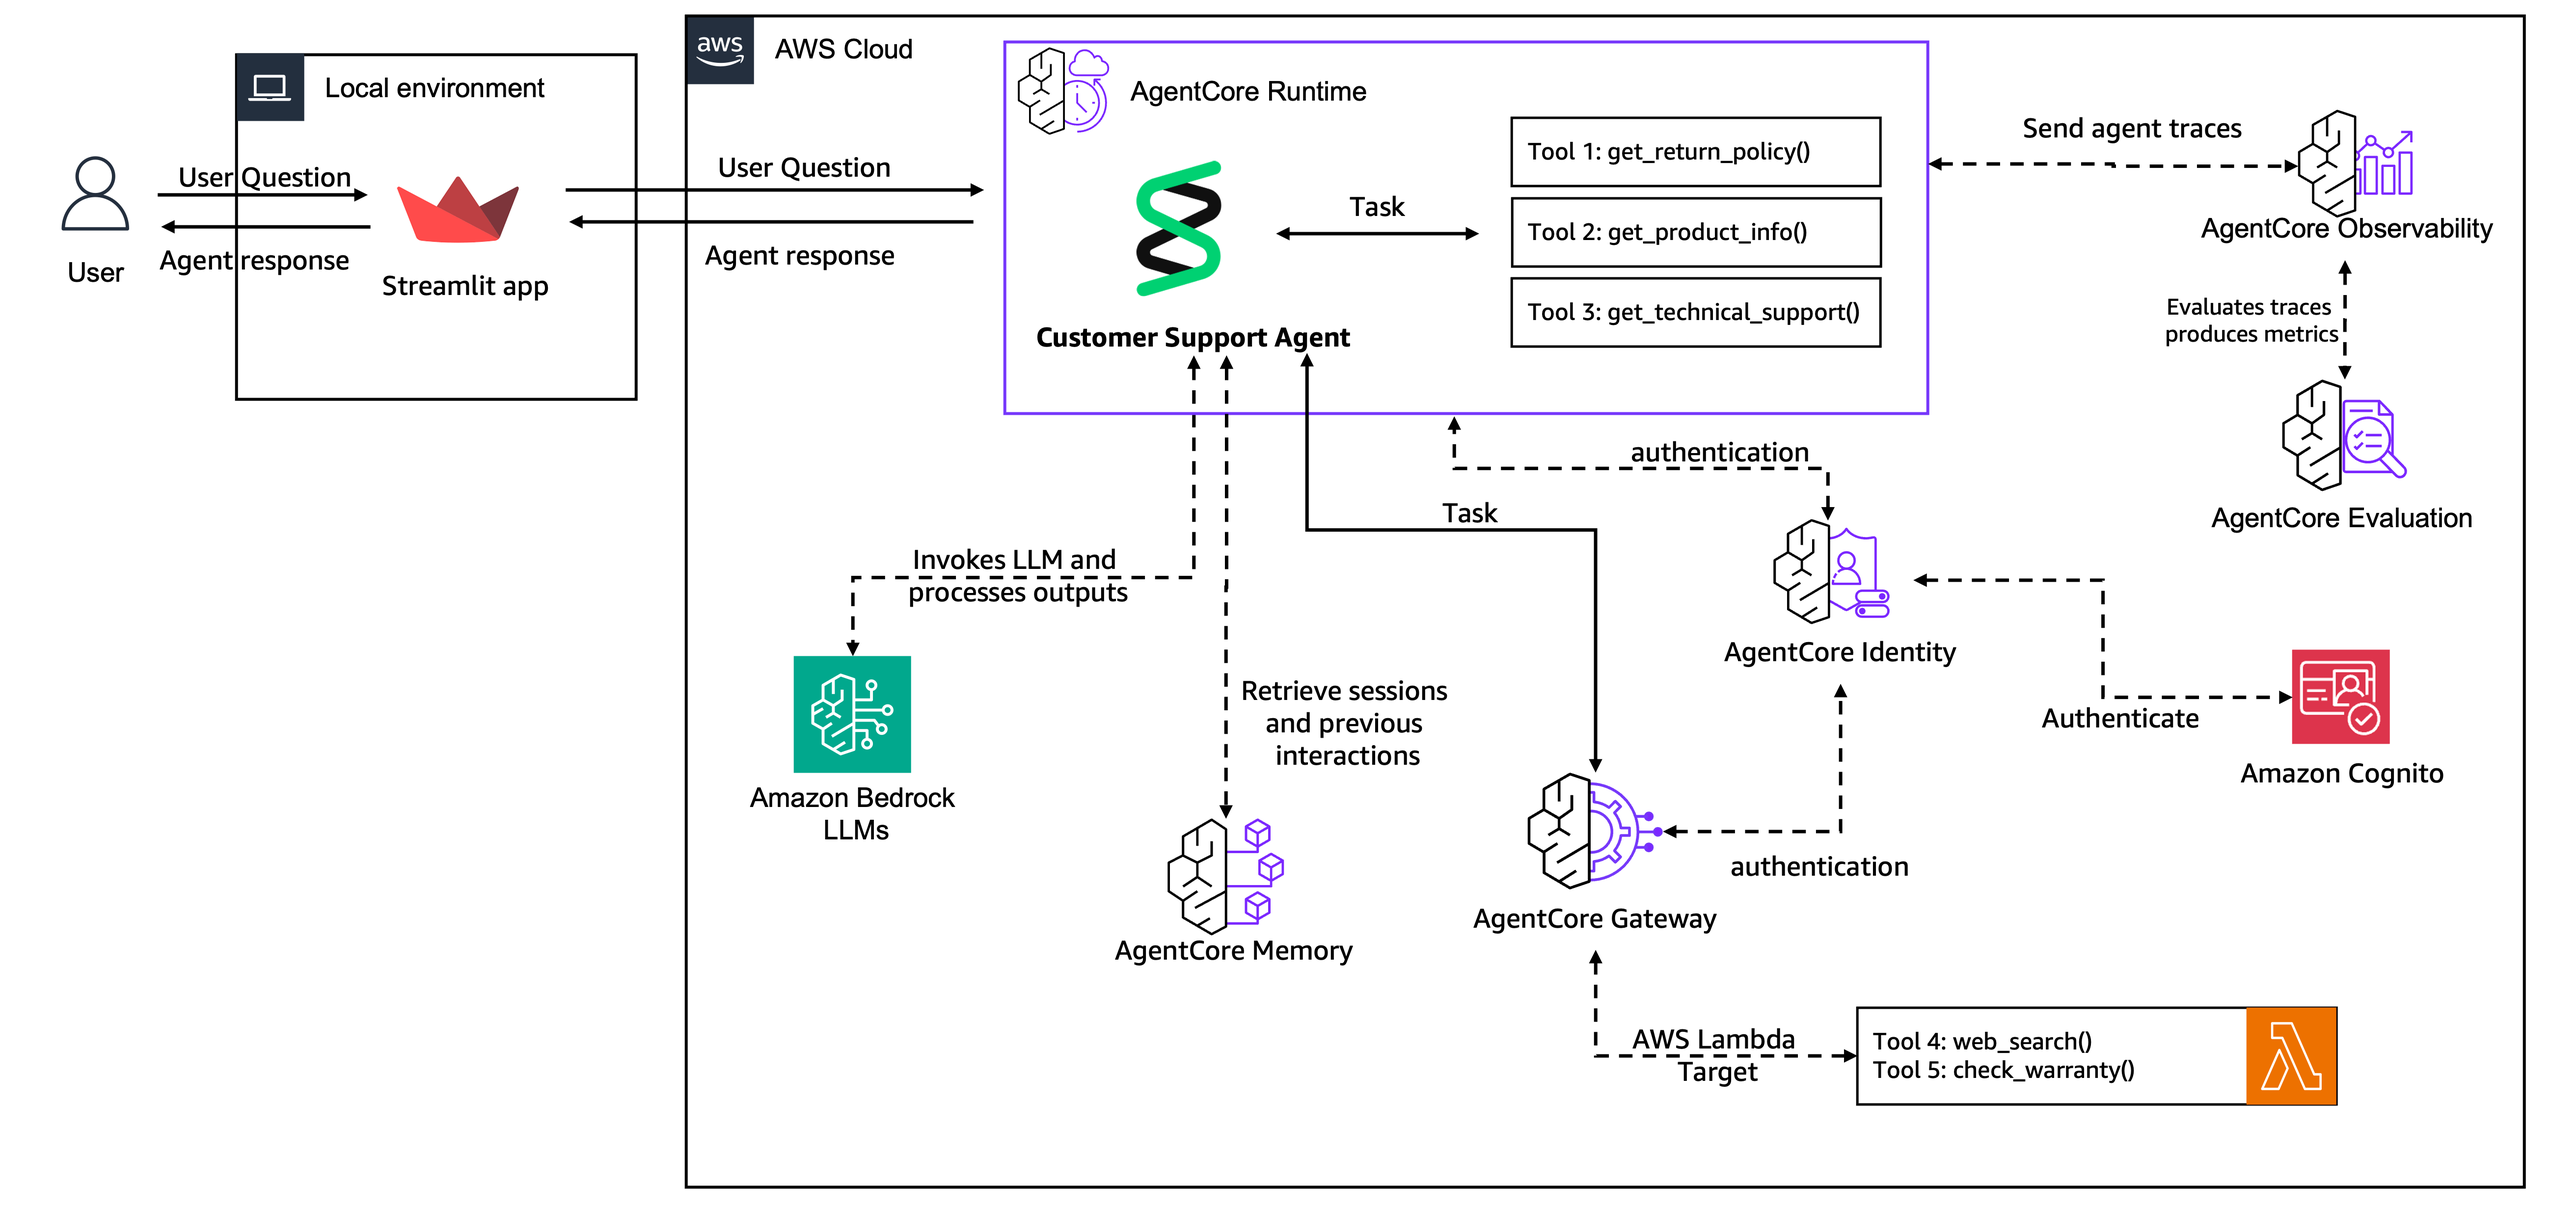
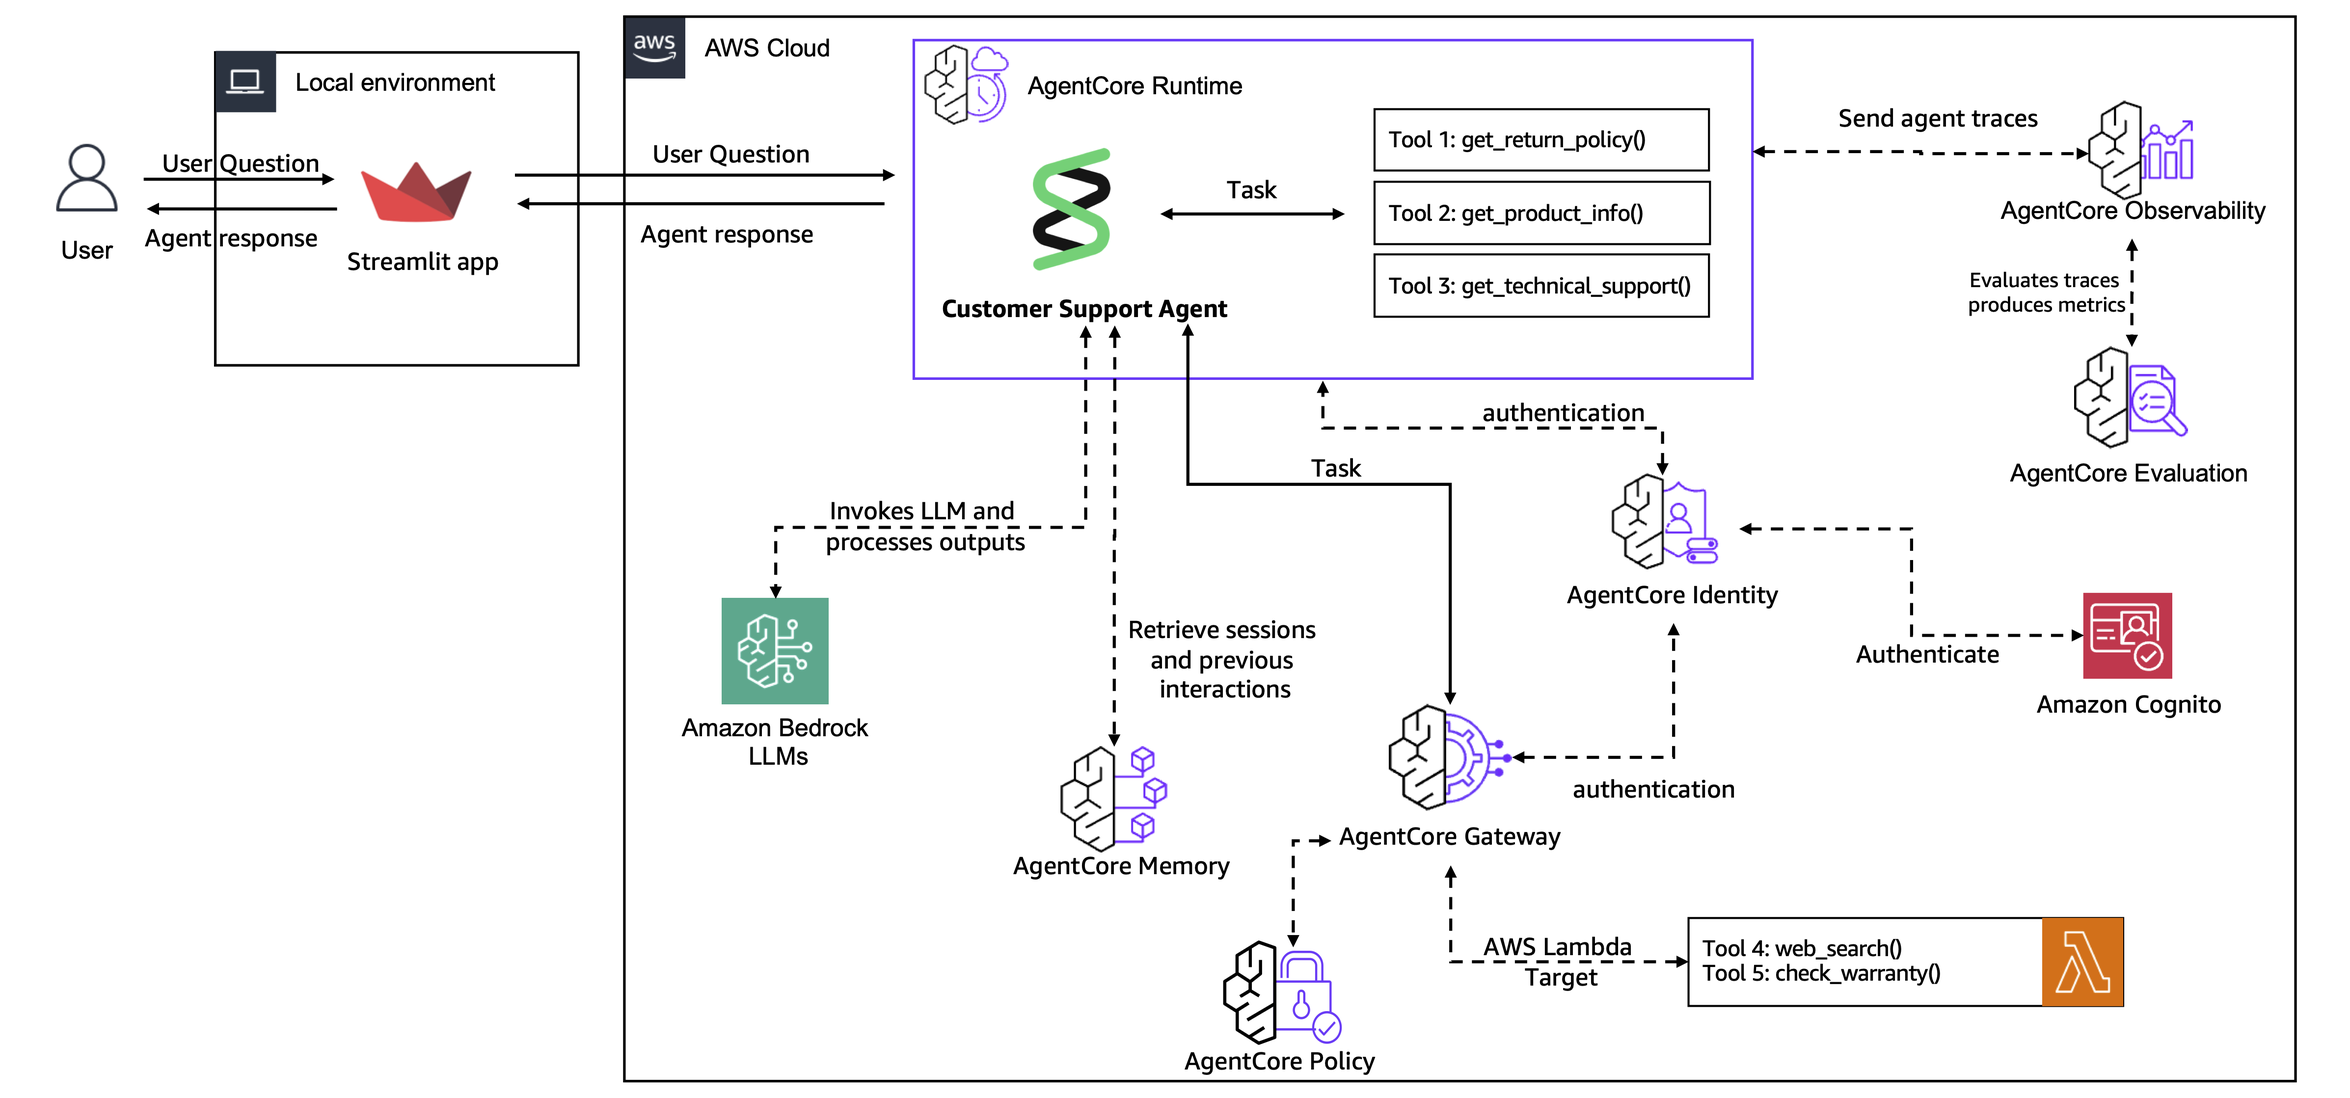
updated utils.py to add pause between target and gateway deletion. Updated lab6 arch diagram to omclude AgentCore policy

diff --git a/01-tutorials/09-AgentCore-E2E/lab_helpers/utils.py b/01-tutorials/09-AgentCore-E2E/lab_helpers/utils.py
@@ -3,6 +3,7 @@ import hashlib
 import hmac
 import json
 import os
+import time
 from typing import Any, Dict
 
 import boto3
@@ -663,6 +664,7 @@ def gateway_target_cleanup(gateway_id: str = None):
         gatewayIdentifier=gateway_id, maxResults=100
     )
 
+    targets_deleted = False
     for item in list_response["items"]:
         target_id = item["targetId"]
         print(f"   Deleting target: {target_id}")
@@ -670,7 +672,13 @@ def gateway_target_cleanup(gateway_id: str = None):
             gatewayIdentifier=gateway_id, targetId=target_id
         )
         print(f"   ✅ Target {target_id} deleted")
+        targets_deleted = True
 
+    # Wait for target deletions to propagate
+    if targets_deleted:
+        print("⏳ Waiting for target deletions to propagate...")
+        time.sleep(5)
+        
     # Delete the gateway
     print(f"🗑  Deleting gateway: {gateway_id}")
     gateway_client.delete_gateway(gatewayIdentifier=gateway_id)
@@ -683,6 +691,7 @@ def runtime_resource_cleanup(runtime_arn: str = None):
         agentcore_control_client = boto3.client(
             "bedrock-agentcore-control", region_name=REGION
         )
+        ecr_client = boto3.client("ecr", region_name=REGION)
         if runtime_arn:
             runtime_id = runtime_arn.split(":")[-1].split("/")[-1]
             response = agentcore_control_client.delete_agent_runtime(
@@ -690,8 +699,6 @@ def runtime_resource_cleanup(runtime_arn: str = None):
             )
             print(f"  ✅ Agent runtime deleted: {response['status']}")
         else:
-            ecr_client = boto3.client("ecr", region_name=REGION)
-
             # Delete the AgentCore Runtime
             # print("  🗑  Deleting AgentCore Runtime...")
             runtimes = agentcore_control_client.list_agent_runtimes()
@@ -795,7 +802,8 @@ def policy_engine_cleanup(policy_engine_id: str = None):
         policyEngineId=policy_engine_id,
         maxResults=100
     )
-    
+
+    policies_deleted = False
     for item in list_response["policies"]:
         policy_id = item["policyId"]
         print(f"   Deleting policy: {policy_id}")
@@ -804,6 +812,11 @@ def policy_engine_cleanup(policy_engine_id: str = None):
             policyId=policy_id
         )
         print(f"   ✅ Policy {policy_id} deleted")
+    
+    # Wait for policy deletions to propagate before deleting the engine
+    if policies_deleted:
+        print("⏳ Waiting for policy deletions to propagate...")
+        time.sleep(5)  # 5 seconds is usually sufficient
     
     # Delete the policy engine
     print(f"🗑  Deleting policy engine: {policy_engine_id}")
